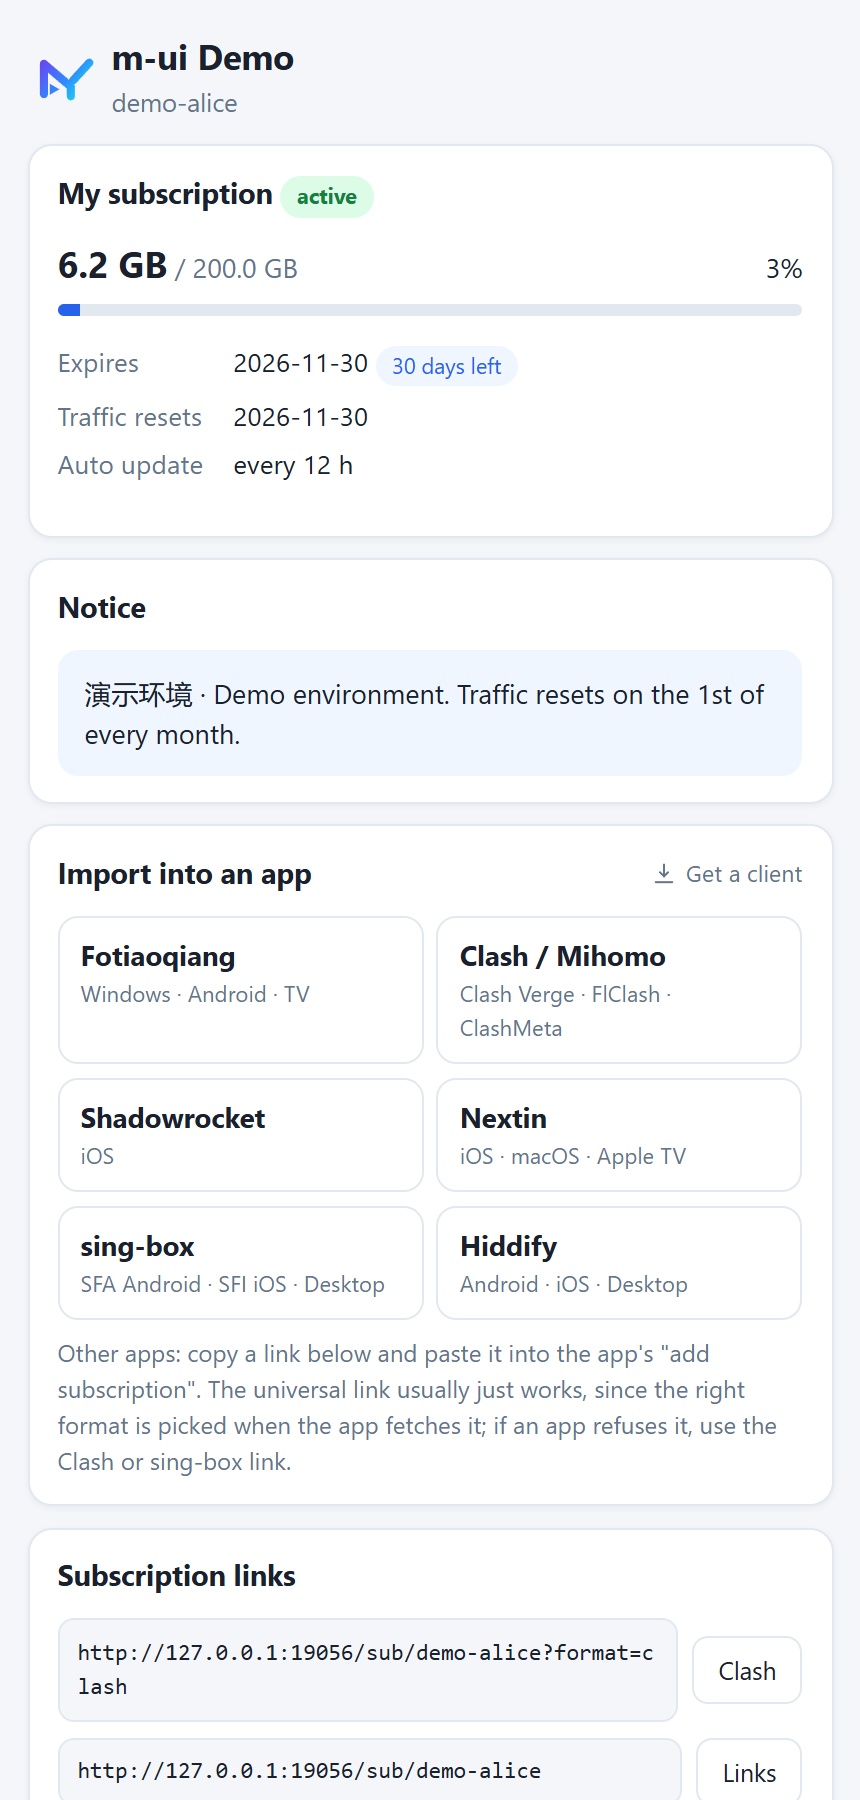
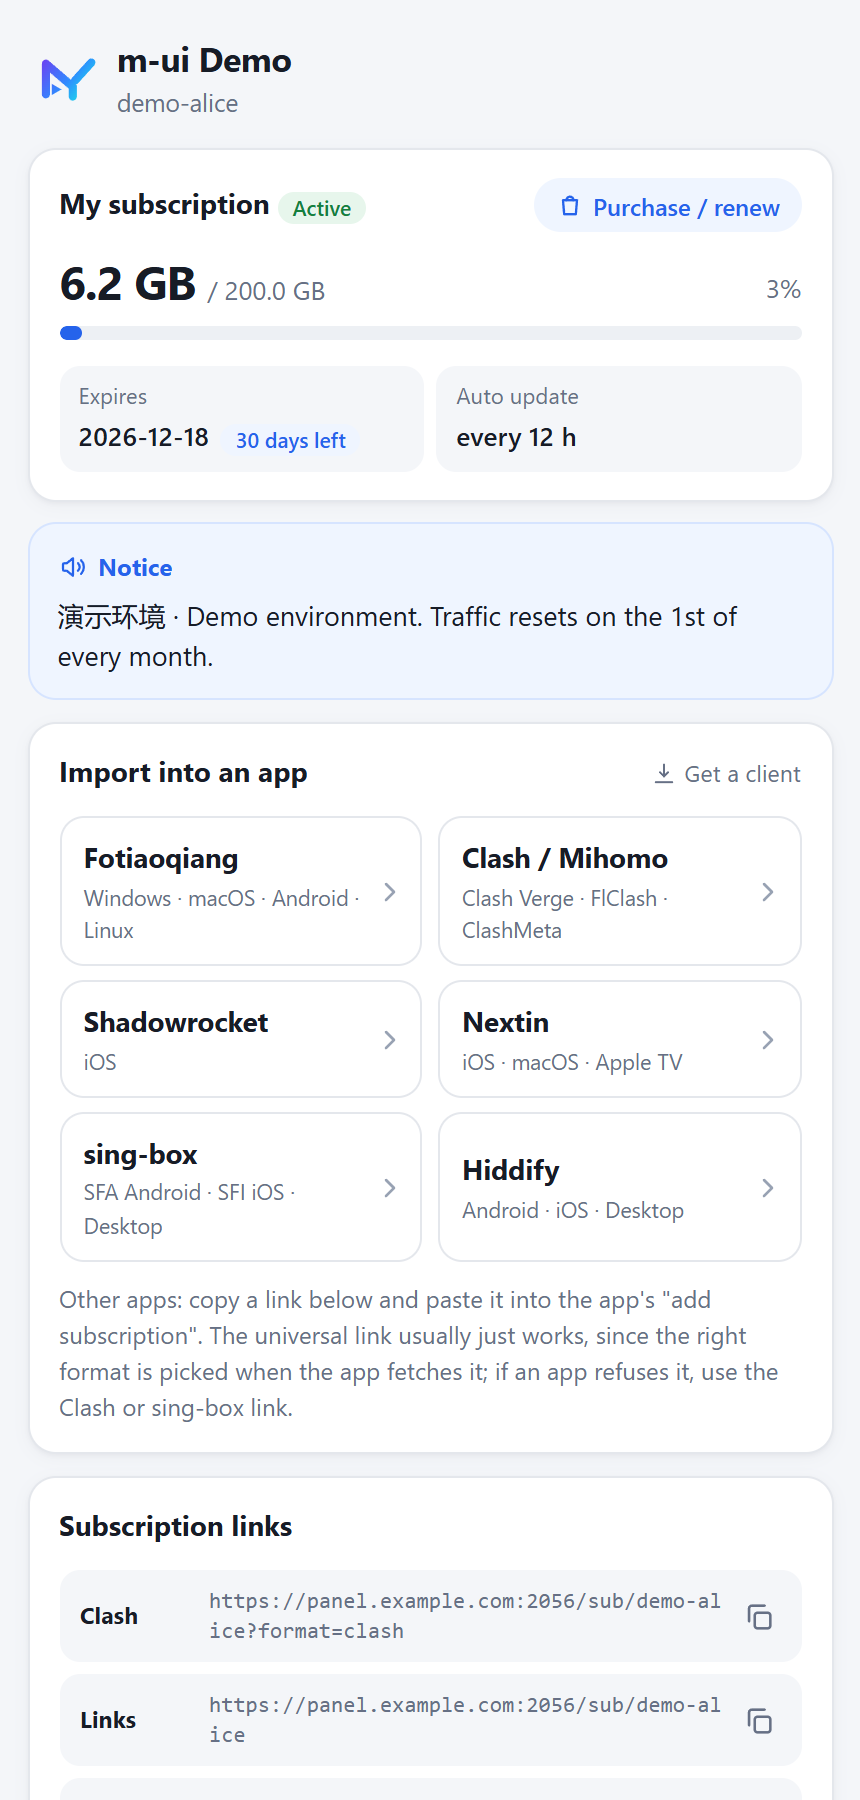
README / 文档站截图按 0.8.0 的界面重拍;概况页英文的单复数
- 截图从演示站拍(和线上的 Live Demo 同一份界面与数据),新增 docs/screenshots/demo-shots.mjs 一条命令重拍;
  落地页那两张对着测试面板拍(演示用户、文档域名)
- 概况页英文里「数量 + 名词」的句子数量是 1 时用单数(以前是 1 upstreams failing 之类),只改英文,中文不变

diff --git a/web/assets/js/i18n.js b/web/assets/js/i18n.js
@@ -2234,14 +2234,14 @@ const en = {
   'dash.attn.ignored': '{n} dismissed', 'dash.attn.restore': 'Show again', 'dash.attn.srcFail': 'Could not load {what}', 'dash.attn.srcStale': 'Could not refresh {what} (showing data from {time})', 'dash.attn.hubQuiet': 'This server started {dur} ago and the master has not contacted it since', 'dash.online.matchN': '{m} of {n} online match',
   'dash.attn.src.nodes': 'server status', 'dash.attn.src.health': 'upstream checks', 'dash.attn.src.conns': 'recent connections', 'dash.attn.src.status': 'panel status',
   'dash.attn.reload': 'Data plane reload failed ({op})', 'dash.attn.viewLog': 'View log →',
-  'dash.attn.certs': '{n} certificates need attention', 'dash.attn.cert.failing': 'renewal failed {n}', 'dash.attn.cert.missing': 'unreadable {n}', 'dash.attn.cert.expired': 'expired {n}', 'dash.attn.cert.expiring': 'expiring {n}',
-  'dash.attn.reach': 'Mainland reachability problems on {n} servers', 'dash.attn.reach.blocked': 'blocked {n}', 'dash.attn.reach.partial': 'partially blocked {n}',
-  'dash.attn.nodes': '{on} / {total} servers online', 'dash.attn.node.offline': 'offline {n}', 'dash.attn.node.coreStopped': 'data plane stopped {n}', 'dash.attn.node.reloadErr': 'reload failed {n}',
+  'dash.attn.certs': '{n} {n|certificate needs|certificates need} attention', 'dash.attn.cert.failing': 'renewal failed {n}', 'dash.attn.cert.missing': 'unreadable {n}', 'dash.attn.cert.expired': 'expired {n}', 'dash.attn.cert.expiring': 'expiring {n}',
+  'dash.attn.reach': 'Mainland reachability problems on {n} {n|server|servers}', 'dash.attn.reach.blocked': 'blocked {n}', 'dash.attn.reach.partial': 'partially blocked {n}',
+  'dash.attn.nodes': '{on} / {total} {total|server|servers} online', 'dash.attn.node.offline': 'offline {n}', 'dash.attn.node.coreStopped': 'data plane stopped {n}', 'dash.attn.node.reloadErr': 'reload failed {n}',
   'dash.attn.node.decom': 'shutdown notice pending {n}', 'dash.attn.node.ledger': 'ledger failing {n}', 'dash.attn.node.unsynced': 'not synced {n}', 'dash.attn.node.version': 'version mismatch {n}',
-  'dash.attn.upstreams': '{n} upstreams failing', 'dash.attn.up.servers': 'on {n} servers',
+  'dash.attn.upstreams': '{n} {n|upstream|upstreams} failing', 'dash.attn.up.servers': 'on {n} {n|server|servers}',
   'dash.attn.v6': 'IPv6 unreachable on {n} servers',
-  'dash.attn.rejected': '{n} sources refused in the last 10 min', 'dash.attn.rej.device': 'device limit {n}', 'dash.attn.rej.pool': 'reseller pool full {n}', 'dash.attn.showRejected': 'Show refused ↓',
-  'dash.attn.resellers': '{n} resellers need attention', 'dash.attn.rs.depleted': 'quota used up {n}', 'dash.attn.rs.expiring': 'expiring within 7 d: {n}',
+  'dash.attn.rejected': '{n} {n|source|sources} refused in the last 10 min', 'dash.attn.rej.device': 'device limit {n}', 'dash.attn.rej.pool': 'reseller pool full {n}', 'dash.attn.showRejected': 'Show refused ↓',
+  'dash.attn.resellers': '{n} {n|reseller needs|resellers need} attention', 'dash.attn.rs.depleted': 'quota used up {n}', 'dash.attn.rs.expiring': 'expiring within 7 d: {n}',
   'dash.attn.backupFailed': 'Scheduled backup failed', 'dash.attn.backupStale': 'Latest backup: {ago}',
   'dash.attn.node.diskFull': 'disk full {n}',
   'dash.attn.node.disk': 'disk nearly full {n}',
@@ -2310,26 +2310,26 @@ const en = {
   'ha.plan.resellerPortClash': 'This server\'s reseller panel port {port} is taken by the {what} there: once it is master its reseller panel keeps its own port {own}, so that address changes.',
   'ha.idw.portAuto': 'The {svc} port {port} that moved over and this server\'s own port are both taken by other programs ({err}), so the {svc} temporarily uses the free port {to}: its address changed and the cloud firewall / security group must allow {to}; once the other program is stopped you can change it back in the settings.',
   'ha.ready.standbyPortBusy.warn': 'These ports on standbys are taken by other programs although the standby needs them after taking over: it would fall back to its own port, then to a free one, and the subscription / panel address would change. Run ss -ltnp on that server to see which program: {names}',
-  'dash.attn.ledger': 'Local traffic ledger failed {n} times in a row', 'dash.attn.hubSilent': 'No contact from the master for {dur}', 'dash.attn.hubSilentHint': 'This server keeps serving with the last config; check the master and the network between them',
+  'dash.attn.ledger': 'Local traffic ledger failed {n} {n|time|times} in a row', 'dash.attn.hubSilent': 'No contact from the master for {dur}', 'dash.attn.hubSilentHint': 'This server keeps serving with the last config; check the master and the network between them',
   'dash.attn.statusStale': 'Panel status not refreshed (data from {time})',
   'dash.attn.ha.took': 'This server took over as master (epoch {e})', 'dash.attn.ha.dataAt': 'data as of {time}', 'dash.attn.ha.former': "former master '{name}' has not come back",
-  'dash.attn.ha.demoted': "This server is now a node: '{name}' took over", 'dash.attn.ha.divergent': '{n} changes made here while cut off are not on the new master', 'dash.attn.ha.backup': 'divergence backup {file}',
+  'dash.attn.ha.demoted': "This server is now a node: '{name}' took over", 'dash.attn.ha.divergent': '{n} {n|change|changes} made here while cut off {n|is|are} not on the new master', 'dash.attn.ha.backup': 'divergence backup {file}',
   'dash.attn.ha.switching': "Moving the master role to '{name}'", 'dash.attn.ha.frozen': 'writes paused until {time}', 'dash.attn.ha.switchFailed': 'Master switch failed: {err}',
   'dash.attn.ha.promoting': 'This server is taking over as master', 'dash.attn.ha.lost': 'No contact from the master for {dur}', 'dash.attn.ha.rank': 'this server is standby {n}', 'dash.attn.ha.replica': 'replica {ago}',
   'dash.attn.ha.stale': 'Standby replicas are stale', 'dash.attn.ha.sendFailed': 'send failed', 'dash.attn.ha.noStandby': 'No eligible standby: nothing can take over if the master fails',
   'dash.attn.ha.replicaErr': 'Replica build or send failed: {err}', 'dash.attn.ha.verifyErr': 'The local replica failed its self-check: {err}',
-  'dash.people': '{n}', 'dash.online.sub': '{total} users · {rs} under resellers', 'dash.online.subAll': '{total} users',
+  'dash.people': '{n}', 'dash.online.sub': '{total} {total|user|users} · {rs} under resellers', 'dash.online.subAll': '{total} {total|user|users}',
   'dash.online.title': 'Direct {direct} ({enabled} enabled) · under resellers {rs}; the online count includes reseller users and other servers',
   'dash.nodes.fault': 'faulty {n}', 'dash.nodes.warn': 'warnings {n}', 'dash.nodes.allOk': 'All online',
   'dash.cert': 'Certificate', 'dash.cert.none': 'No certificate', 'dash.cert.self': 'Self-signed', 'dash.cert.ca': 'CA-issued',
   'dash.sync': 'Sync with master', 'dash.sync.rev': 'Rev {rev}', 'dash.sync.applied': 'applied {ago}', 'dash.sync.seen': 'master seen {ago}', 'dash.sync.never': 'No config from the master yet',
   'dash.up.bad': '✗ {n} failing', 'dash.up.ok': 'All OK · {ago}',
   'dash.load': 'This server', 'dash.disk': 'Disk', 'dash.load.title': 'Memory {mem} · disk free {disk}',
-  'dash.health.every': 'every {n} min', 'dash.health.okN': '{n} OK', 'dash.health.badN': '{n} failing', 'dash.health.servers': 'on {n} servers', 'dash.health.pendN': '{n} pending / stale',
+  'dash.health.every': 'every {n} min', 'dash.health.okN': '{n} OK', 'dash.health.badN': '{n} failing', 'dash.health.servers': 'on {n} {n|server|servers}', 'dash.health.pendN': '{n} pending / stale',
   'dash.health.allOk': '✓ All upstreams in use are healthy', 'dash.health.unused': 'No upstreams in use', 'dash.health.ratio': '{bad}/{total}', 'dash.health.more': '{n} more failing',
   'dash.online.search': 'Search online users', 'dash.online.noMatch': 'No matches', 'dash.online.cap': '{n} more not shown; search or open Users',
   'dash.online.viewAll': 'Open in Users →', 'dash.online.viewAllTitle': 'The Users page lists direct users only', 'dash.online.split': 'direct {a} · resellers {b}',
-  'dash.chip.conns': '{n} connections here', 'dash.chip.devices': '{n} devices',
+  'dash.chip.conns': '{n} {n|connection|connections} here', 'dash.chip.devices': '{n} {n|device|devices}',
   'dash.conn.f.ok': 'Connections {n}', 'dash.conn.f.rejected': 'Refused {n}', 'dash.conn.f.failed': 'Handshake failed {n}', 'dash.conn.rejected': 'Refused',
   'dash.conn.showAll': 'Show all {n}', 'dash.conn.noRejected': 'No refused connections in the latest {n}', 'dash.conn.noFailed': 'No handshake or auth failures recently', 'dash.conn.search': 'Filter by IP, user or line',
   'dash.audit.human': 'Manual', 'dash.audit.noHuman': 'No manual actions recently', 'dash.audit.viewAll': 'All records →', 'dash.audit.planChange': 'Plan change ({mode})',
@@ -2341,12 +2341,12 @@ const en = {
   'dash.rs.traffic': 'Total traffic {v}', 'dash.rs.userLimit': 'limit {n}', 'dash.rs.enabledAll': 'enabled / total',
   'dash.rs.expiringList': 'Expiring soon', 'dash.rs.quotaList': 'Running out of data', 'dash.rs.noExpiring': 'No users expire within 7 days', 'dash.rs.noQuota': 'No users above 80% of their data', 'dash.rs.moreUsers': '{n} more · view all →',
   'dash.attn.rs.quotaOver': 'Quota used up: your users are cut off and subscriptions return 404', 'dash.attn.rs.quotaNear': '{p}% of quota used', 'dash.attn.rs.quotaNearHint': 'When it runs out, all your users stop working',
-  'dash.attn.rs.expired': 'Reseller account expired', 'dash.attn.rs.expiresIn': 'Reseller account expires in {n} days', 'dash.attn.rs.poolFull': 'Device pool full',
-  'dash.attn.rs.poolFullHint': '{a} / {b} devices online; new devices will be refused', 'dash.attn.rs.userLimit': '{a} / {b} users, near the limit',
+  'dash.attn.rs.expired': 'Reseller account expired', 'dash.attn.rs.expiresIn': 'Reseller account expires in {n} {n|day|days}', 'dash.attn.rs.poolFull': 'Device pool full',
+  'dash.attn.rs.poolFullHint': '{a} / {b} {b|device|devices} online; new devices will be refused', 'dash.attn.rs.userLimit': '{a} / {b} {b|user|users}, near the limit',
   'dash.attn.ha.takeover': 'Take over as master', 'dash.attn.applyErr': 'Config from the master was not applied ({time})', 'dash.attn.rs.justExpired': 'just expired {n}',
   'dash.attn.reachStale': 'Mainland reachability check last completed {ago} (due every {n} min)', 'dash.attn.reachNever': 'Mainland reachability check has never completed', 'dash.attn.reachFailing': 'Mainland reachability check is running, but last succeeded {ago}', 'dash.attn.reachFailNow': 'Mainland reachability check: no server was measured in the last round',
   'dash.attn.healthStale': 'Upstream checks last ran {ago} (due every {n} min)', 'dash.scope.localUsed': 'in use here',
-  'dash.linesLocalTitle': 'Lines deployed on this server; {n} lines in total from the master', 'dash.upsLocalTitle': 'Upstreams used by the lines on this server; {n} in total from the master',
+  'dash.linesLocalTitle': 'Lines deployed on this server; {n} {n|line|lines} in total from the master', 'dash.upsLocalTitle': 'Upstreams used by the lines on this server; {n} in total from the master',
   'dash.sync.applyErr': 'not applied: {err}', 'dash.top.gone': 'user deleted', 'dash.audit.batch': 'Batch {op}', 'dash.audit.batchBind': 'Batch plan assignment', 'dash.audit.bind': 'Plan assignment',
   'dash.conn.more': 'Show {n} more ({left} left)',
   'rs.onlyAttn': 'Needs attention only', 'rs.onlyAttnHelp': 'Enabled resellers whose quota is used up, or that expire within 7 days or expired in the last 7 days',
@@ -2427,7 +2427,7 @@ const en = {
   'dash.bd.up': 'Upload', 'dash.bd.perDay': '{v} a day on average', 'dash.bd.activeUsers': 'Users with traffic', 'dash.bd.users': 'Users', 'dash.bd.lines': 'Lines', 'dash.bd.nodes': 'Servers',
   'dash.bd.rest': '{n} more', 'dash.bd.restUsers': '{n} more users', 'dash.bd.unassigned': 'Not attributed to a line', 'dash.bd.gone': 'gone', 'dash.bd.none': 'No traffic',
   'dash.bd.empty': 'No traffic in this period.',
-  'dash.bd.missing': 'The Lines column is missing {n} servers that could not be asked (offline or on an older version): {names}. Their traffic is counted under "Not attributed to a line".',
+  'dash.bd.missing': 'The Lines column is missing {n} {n|server|servers} that could not be asked (offline or on an older version): {names}. Their traffic is counted under "Not attributed to a line".',
   'dash.bd.note': 'The three columns split the same total three ways, all counted with server ratios.', 'dash.bd.noteLocal': 'This server only.',
   'dash.bd.unassignedWhy': 'This traffic cannot be matched to a current line: its server was removed or disabled, or the line was renamed later.',
   'bk.card': 'Backups', 'bk.dlNow': 'Download a backup',
